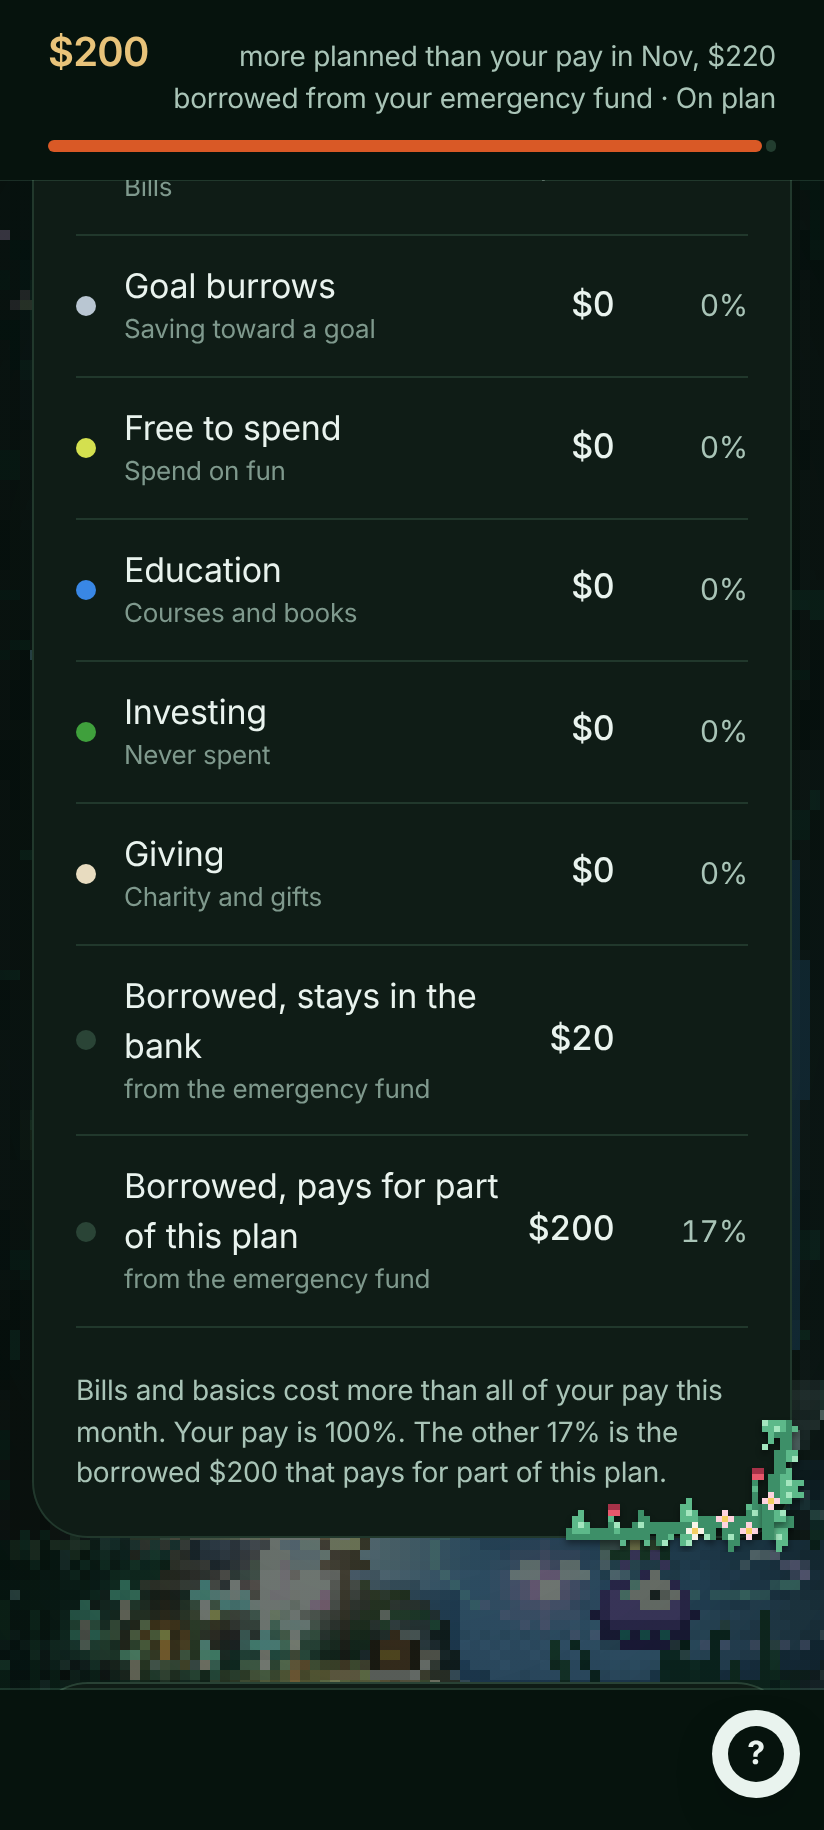
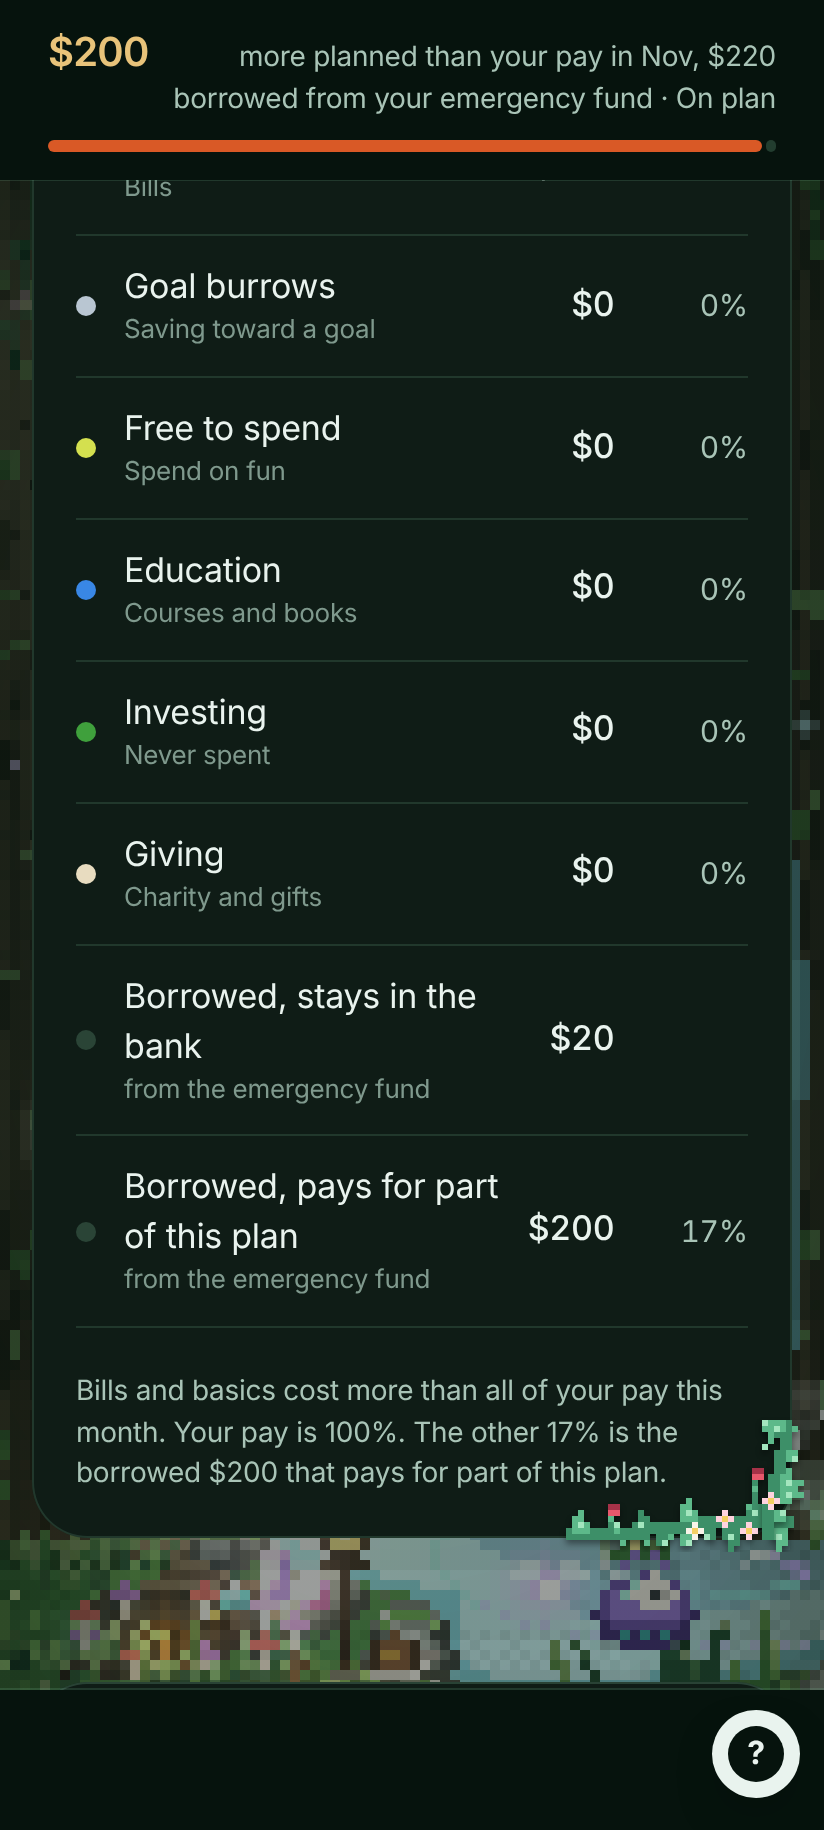
preview/after: 11 screenshots of the build after QC round 3 (9a0d2fc); preview_shots.js finds Plan's bank sentence by its Q2 name
check.sh fast on 9a0d2fc failed only the guard (idle CPU 1.55 to 1.84%, a 206 ms task): 220 leftover Chrome processes from
earlier test runs were running. After killing them the guard passes alone (1.09 to 1.39%, longest task 147 ms).

Claude-Session: https://claude.ai/code/session_01BFpKEV8jRCDQnxRTVqiUZr

diff --git a/wip/team/tests/qc/preview_shots.js b/wip/team/tests/qc/preview_shots.js
@@ -62,7 +62,7 @@ const tryShot = async (name, fn) => { try { await fn(); } catch (e) { skipped.pu
     await top(p); const t = await toLine(p, /In your bank now/, 0.12); await shot(p, '04-home-bank-now-and-cards.png');
     note('04', (await p.evaluate(() => { const n = document.querySelector('#hMap .mp-now'); return n ? n.innerText.replace(/\s+/g, ' ') : ''; })).slice(0, 500)); });
   await tryShot('05-home-bank-at-month-end.png', async () => { const t = await toLine(p, /Bank at month end/); if (!t) throw new Error('no "Bank at month end" on Home'); await shot(p, '05-home-bank-at-month-end.png'); note('05', t + ' || ' + (await seen(p, /Bank at month end[^\n]*\n[^\n]*(\n[^\n]*)?/))); });
-  await tryShot('06-plan-bank-stays.png', async () => { await tabTo(p, 'tab-month'); await tapText(p, /^Month$/); const t = await toLine(p, /Bank (stays|ends) at/); if (!t) throw new Error('no "Bank stays at" or "Bank ends at" sentence on Plan, Month'); await shot(p, '06-plan-bank-stays.png'); note('06', t); });
+  await tryShot('06-plan-bank-stays.png', async () => { await tabTo(p, 'tab-month'); await tapText(p, /^Month$/); const t = await toLine(p, /Bank (stays|ends) at|Bank at month end: /); if (!t) throw new Error('no "Bank at month end:" sentence on Plan, Month (before Q2: "Bank stays at")'); await shot(p, '06-plan-bank-stays.png'); note('06', t); });
   await tryShot('10-plan-month.png', async () => { await tabTo(p, 'tab-month'); await tapText(p, /^Month$/); await top(p); await shot(p, '10-plan-month.png'); });
   await tryShot('11-burrows.png', async () => { await tabTo(p, 'tab-month'); await tapText(p, /^Burrows$/); await top(p); await shot(p, '11-burrows.png'); });
   await tryShot('09-receipts.png', async () => { await tabTo(p, 'tab-receipts'); await shot(p, '09-receipts.png'); });
